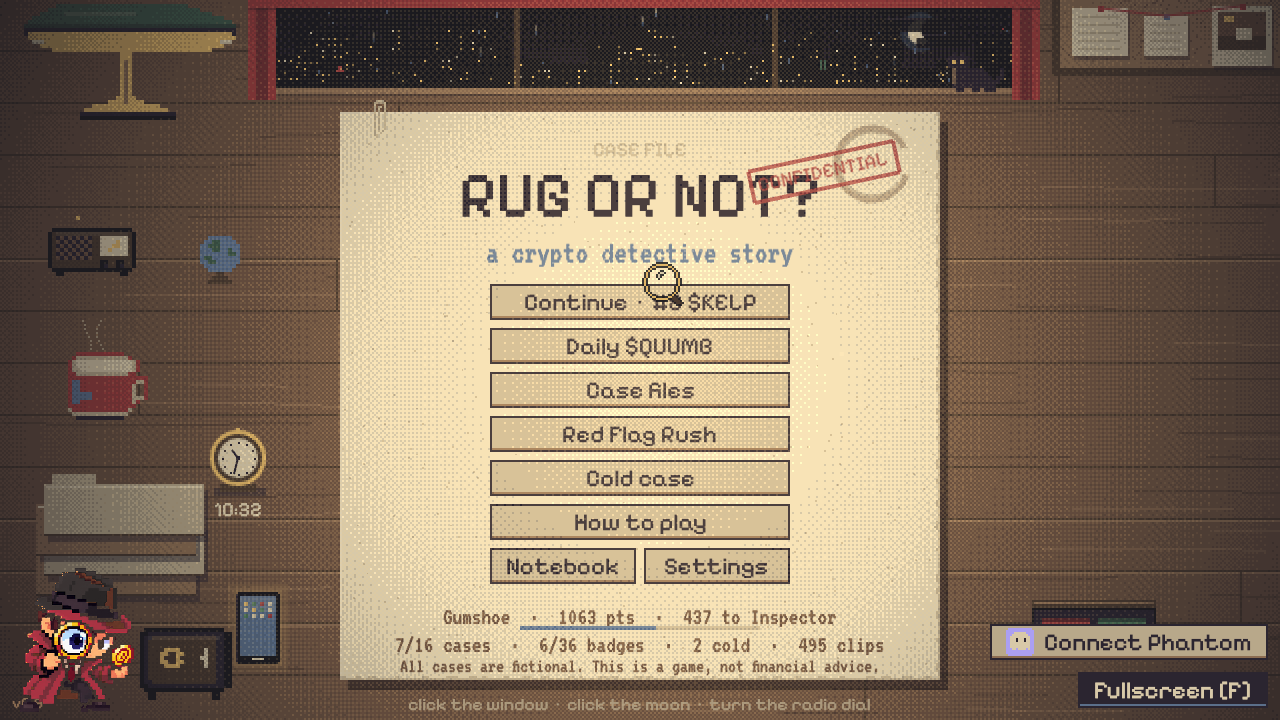
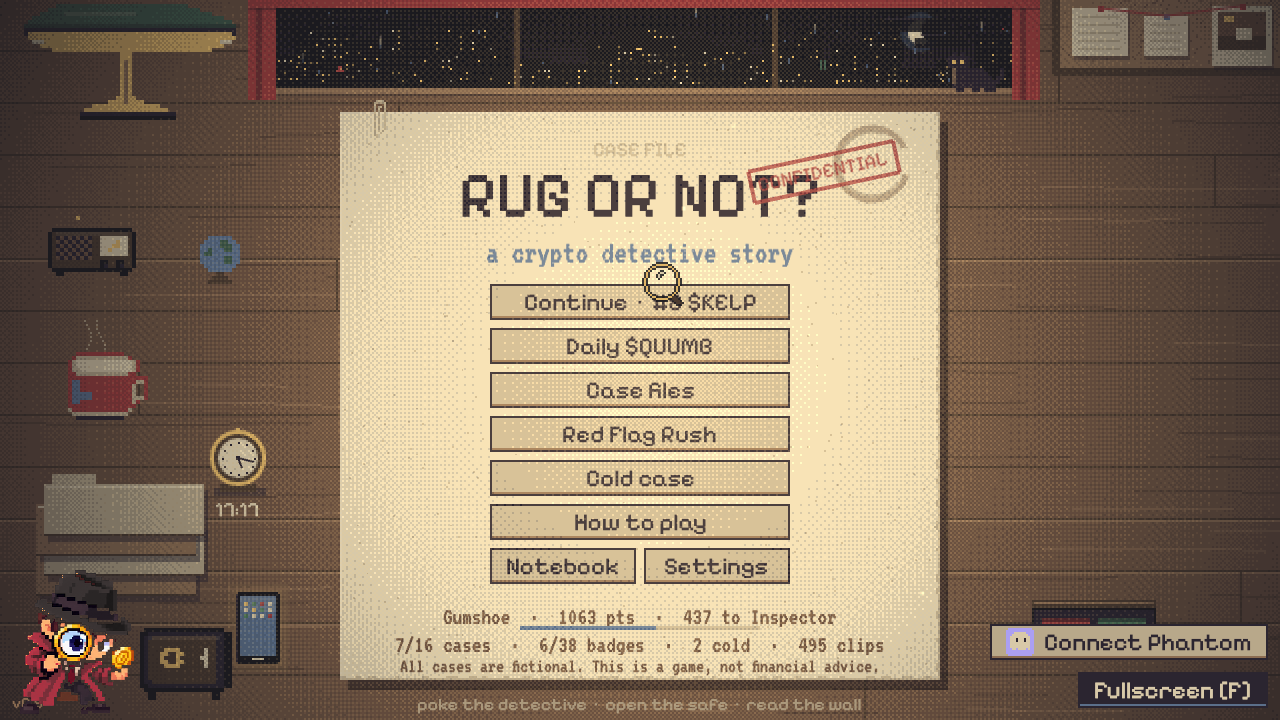
Stills and clips retaken after the wardrobe fix

diff --git a/CHANGELOG.md b/CHANGELOG.md
@@ -17,7 +17,11 @@
 - The fish crosses its bowl, the globe turns, the plant leans, the bobblehead nods: the
   corner has a little life. Buying anything rings the till and bounces what landed.
 - Curtains from the market can be drawn: click the cloth and they meet across the glass,
-  click again to let the city back in. They stay drawn from screen to screen.
+  click again to let the city back in. They stay drawn from screen to screen, and nothing
+  outside (the train, a plane) shows through them.
+- The market recolours by piece of cloth, not by a line across the sprite: the whole brim
+  takes the hat's colour, the coat's folds take the coat's, and the brass on the magnifier
+  and the coin keep theirs. Biscuit walks the sill properly now, facing the way she goes.
 - One item a day is a third off at the market (the same one for everyone; half off for
   coin holders of any tier), and hovering a row tries it on: the strip at the top shows
   Lucien in that coat, the cat in that fur. Fingers can't hover, so on a phone a tap on the
